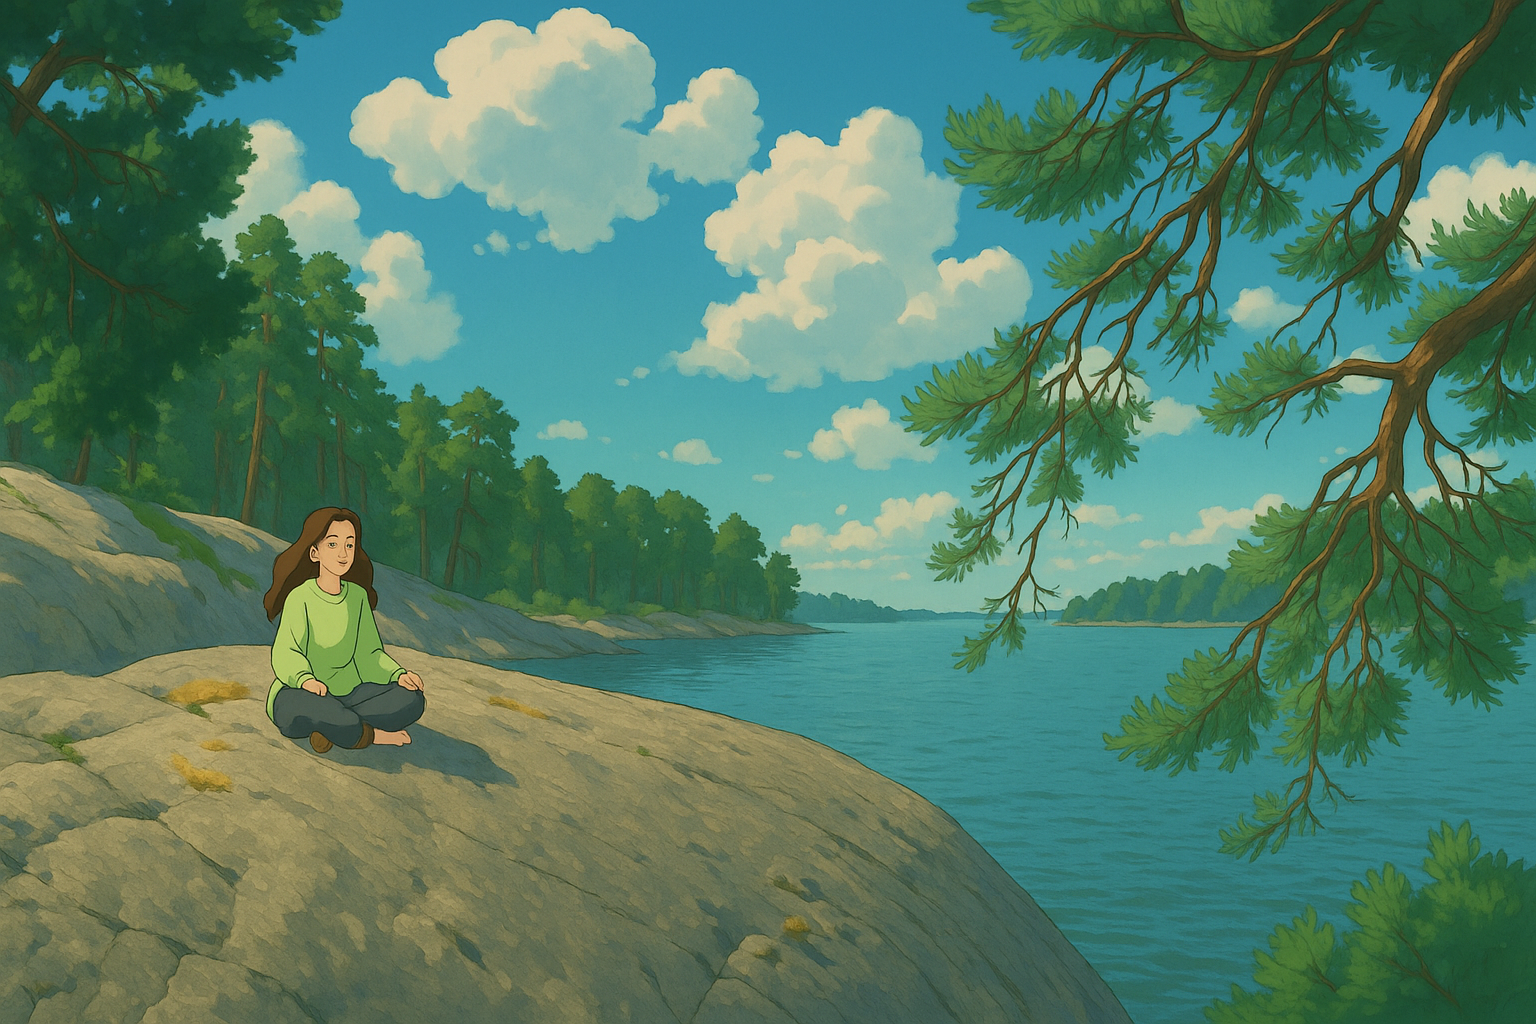
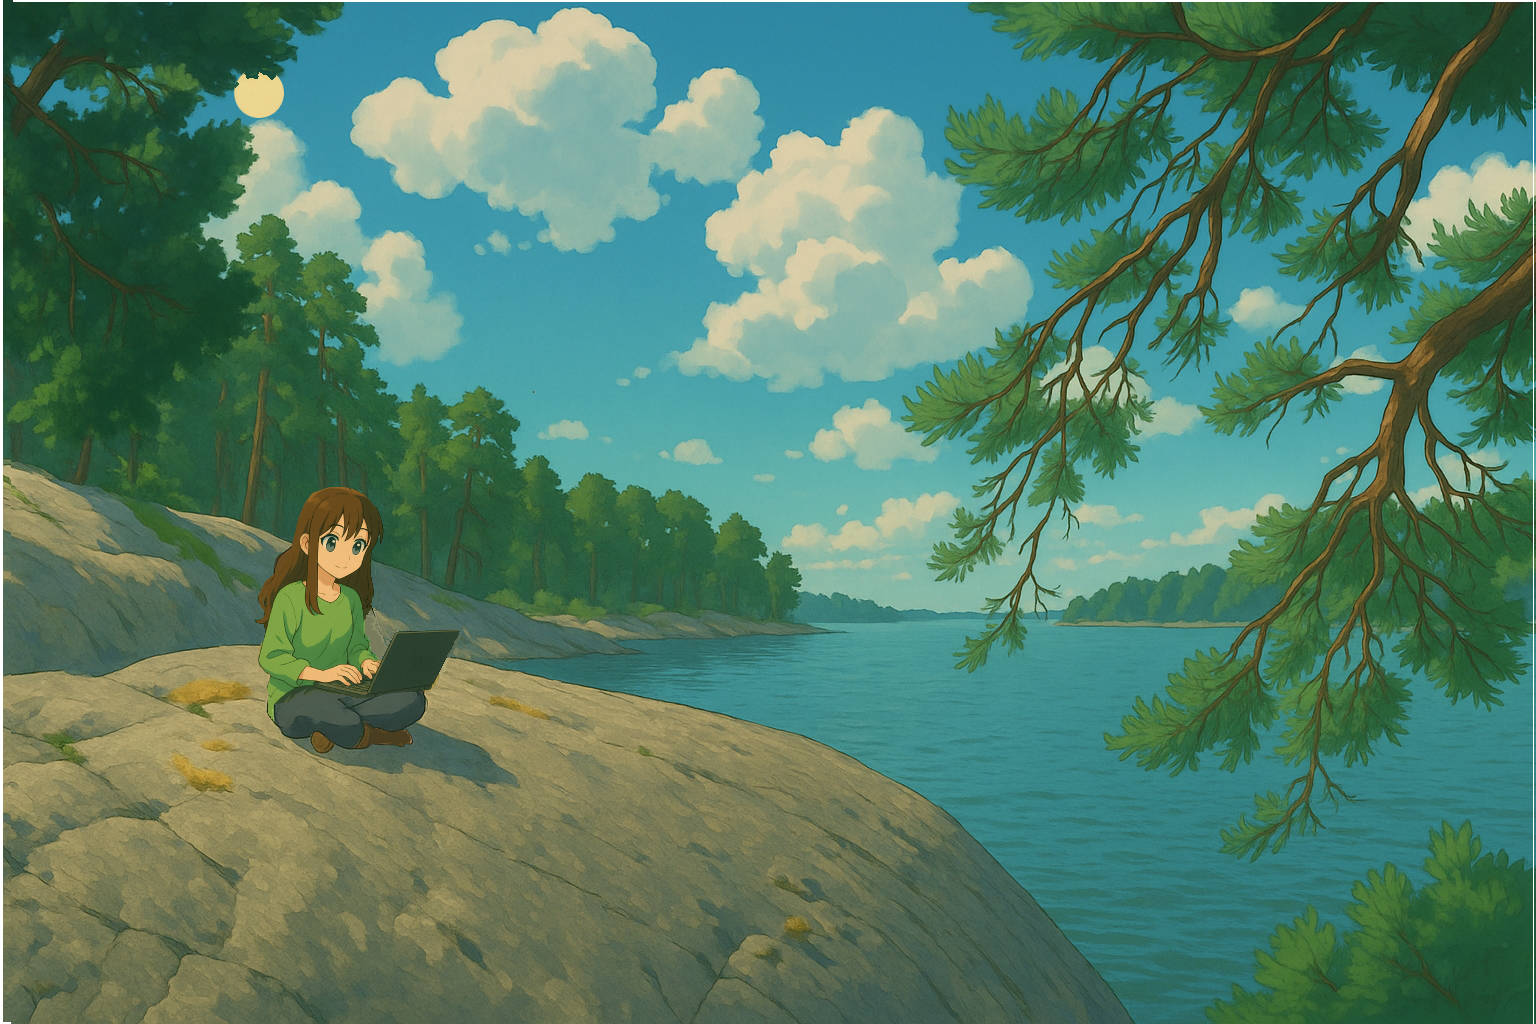
portfolio 2

diff --git a/HTML/profile_page_project/styles.css b/HTML/profile_page_project/styles.css
@@ -37,22 +37,25 @@ h3 {
 }
 .image .btn {
   background-color: hsl(44, 27%, 84%);
+  color: #2e88a3;
+  font: bold;
   cursor: pointer;
-  width: 80px; /* Width of the button */
-  height: 80px; /* Height of the button (same as width to make it round) */
-  border-radius: 50%; /* Make it round */
-  text-align: center;
+  width: 70px; /* Width of the button */
+  height: 70px; /* Height of the button (same as width to make it round) */
+  border-radius: 60px 10px; /* Make it round */
+  border: none;
+
   display: flex;
   justify-content: center; /* Center the content (text) */
   align-items: center;
   font-family: inherit;
   position: absolute;
-  top: 60px; /* насколько сверху */
-  left: 130px; /* насколько слева */
+  top: 0px; /* насколько сверху */
+  left: 300px; /* насколько слева */
   z-index: 10; /* чтобы была поверх картинки */
-  /* padding: 10px 20px; */
-
+  /* padding: 10px 20px; 
   display: block;
+   text-align: center;*/
 
   /* margin: 10px auto;<-- Центрирование по горизонтали */
 }
@@ -61,6 +64,7 @@ h3 {
   align-items: flex-start;
   justify-content: space-between;
   width: 100%;
+
   /* height: 400px; or whatever height you want */
   /* background-color: #9090b7; */
 }
@@ -72,6 +76,15 @@ h3 {
   /* filter: blur(5px); */
   height: auto;
 }
+
+#toggle-pic {
+  width: 50px;
+  height: auto;
+  position: "absolute";
+  top: "42px";
+  left: "230px";
+  zindex: "10";
+}
 .rectangle {
   /* background-color: hsl(45, 92%, 79%); */
   background-color: hsl(44, 27%, 84%);
@@ -80,6 +93,11 @@ h3 {
   display: flex;
   align-items: center;
   justify-content: center;
+
+  #gradient {
+    padding: 0px;
+    margin: 0px;
+  }
 }
 main {
   margin: 20px;
@@ -87,6 +105,7 @@ main {
   display: flex;
   justify-content: space-around;
   align-items: center;
+  border-top: #2e88a3 solid 2px;
 }
 .esi {
   padding: 20px;
@@ -102,6 +121,7 @@ main {
   font-size: 18px;
   list-style: none;
   margin: 0;
+  padding: 10px 0;
 }
 footer {
   margin: 12px;
@@ -214,8 +234,87 @@ html {
   scrollbar-width: thin;
   scrollbar-color: #2e88a3 #cbcbdb;
 }
+/* for dark theme */
+body.dark-theme {
+  background-color: #222;
+  color: #f1f1f1;
+}
 
-/*for dark theme*/
+body.dark-theme header {
+  background-color: #333;
+}
+
+body.dark-theme .kuva {
+  background-color: #444;
+}
+
+body.dark-theme .rectangle {
+  background-color: #333;
+}
+
+body.dark-theme .esi {
+  background-color: #555;
+}
+
+body.dark-theme .esi p,
+body.dark-theme .info ol li,
+body.dark-theme .formSubmit label,
+body.dark-theme footer .copyright {
+  color: #ddd;
+}
+
+body.dark-theme a,
+body.dark-theme .oma_class {
+  color: #ddd;
+}
+
+body.dark-theme footer {
+  background-color: #444;
+}
+
+body.dark-theme .footer_img img {
+  filter: brightness(0.7);
+}
+
+body.dark-theme .linkit {
+  background-color: #2e88a3;
+}
+
+body.dark-theme .btn {
+  color: hsl(44, 27%, 84%);
+  background-color: #2e88a3;
+}
+
+body.dark-theme #scrollTopBtn {
+  background-color: #2e88a3;
+  color: white;
+}
+
+body.dark-theme #scrollTopBtn:hover {
+  background-color: #3c3960;
+}
+
+body.dark-theme ::-webkit-scrollbar-track {
+  background: #333;
+}
+
+body.dark-theme ::-webkit-scrollbar-thumb {
+  background-color: #2e88a3;
+}
+
+body.dark-theme * {
+  scrollbar-color: #2e88a3 #333;
+}
+
+.dark-theme #anna {
+  display: none;
+}
+
+body:not(.dark-theme) #moon {
+  display: none;
+}
+
+/*for dark theme
 body.dark-theme {
   background-color: #222;
   color: #f1f1f1;
@@ -237,4 +336,4 @@ body.dark-theme .oma_class {
 }
 body.dark-theme footer .copyright {
   color: #bbb;
-}
+}*/

diff --git a/HTML/profile_page_project/scriptAurora.js b/HTML/profile_page_project/scriptAurora.js
@@ -1,0 +1,57 @@
+var colors = new Array(
+  [0, 255, 150], // яркий зелёный
+  [0, 191, 255], // небесно-синий
+  [138, 43, 226], // фиолетовый
+  [123, 104, 238], // светло-фиолетовый
+  [0, 255, 255] // аквамариновый
+  // [255, 105, 180]  розовый (легкий акцент)
+);
+
+var step = 0;
+var colorIndices = [0, 1, 2, 3];
+var gradientSpeed = 0.002;
+
+function updateGradient() {
+  var gradient = document.getElementById("gradient");
+
+  // Проверяем, активна ли темная тема
+  if (!document.body.classList.contains("dark-theme")) {
+    gradient.style.background = "none"; // убираем фон в светлой теме
+    return;
+  }
+  var c0_0 = colors[colorIndices[0]];
+  var c0_1 = colors[colorIndices[1]];
+  var c1_0 = colors[colorIndices[2]];
+  var c1_1 = colors[colorIndices[3]];
+
+  var istep = 1 - step;
+  var r1 = Math.round(istep * c0_0[0] + step * c0_1[0]);
+  var g1 = Math.round(istep * c0_0[1] + step * c0_1[1]);
+  var b1 = Math.round(istep * c0_0[2] + step * c0_1[2]);
+  var color1 = "rgb(" + r1 + "," + g1 + "," + b1 + ")";
+
+  var r2 = Math.round(istep * c1_0[0] + step * c1_1[0]);
+  var g2 = Math.round(istep * c1_0[1] + step * c1_1[1]);
+  var b2 = Math.round(istep * c1_0[2] + step * c1_1[2]);
+  var color2 = "rgb(" + r2 + "," + g2 + "," + b2 + ")";
+
+  gradient.style.background =
+    "linear-gradient(to right, " + color1 + ", " + color2 + ")";
+
+  step += gradientSpeed;
+  if (step >= 1) {
+    step %= 1;
+    colorIndices[0] = colorIndices[1];
+    colorIndices[2] = colorIndices[3];
+
+    // выбрать новые цвета
+    colorIndices[1] =
+      (colorIndices[1] + Math.floor(1 + Math.random() * (colors.length - 1))) %
+      colors.length;
+    colorIndices[3] =
+      (colorIndices[3] + Math.floor(1 + Math.random() * (colors.length - 1))) %
+      colors.length;
+  }
+}
+
+setInterval(updateGradient, 10);

diff --git a/HTML/profile_page_project/index.html b/HTML/profile_page_project/index.html
@@ -16,20 +16,24 @@
     </header>
     <div class="kuva">
       <div class="image">
-        <button class="btn" id="themeToggle">Vaihda teema</button>
-        <img src="./img/Serene Meditation by the Lake.png" alt="my photo" />
+        <button class="btn" id="themeToggle">switch to ...</button>
+        <img src="./img/anna.png" id="anna" alt="day photo" />
+        <img
+          id="moon"
+          src="./img/Moonlit Reflections by the Lake.png"
+          alt="moon"
+        />
       </div>
-      <div class="rectangle">
+      <div class="rectangle" id="gradient">
         <h1>Anna Shitikova</h1>
       </div>
     </div>
     <main>
       <div class="info">
         <ol>
-          <li>Katuosoite Jousenkaari, 5, 30</li>
-          <li>Postinumero ja toimipaikka – 02120 Espoo</li>
-          <li>Puhelinnumero +358 465 542 732</li>
-          <li>Sähköpostiosoite annashitikova@gmail.com</li>
+          <li>My city: Espoo Finland</li>
+          <li>Number: +358 465 542 732</li>
+          <li>Email: annashitikova@gmail.com</li>
         </ol>
       </div>
       <div class="esi">
@@ -89,5 +93,6 @@
     <button id="scrollTopBtn" title="Takaisin ylös">Up↑</button>
 
     <script src="script.js"></script>
+    <script src="scriptAurora.js"></script>
   </body>
 </html>

diff --git a/HTML/profile_page_project/script.js b/HTML/profile_page_project/script.js
@@ -14,13 +14,13 @@ window.addEventListener("DOMContentLoaded", () => {
     document.body.classList.add("dark-theme");
   }
 });
-const scrollLine = document.querySelector(".scroll-line");
+// const scrollLine = document.querySelector(".scroll-line");
 
-window.addEventListener("scroll", () => {
-  const height = document.documentElement.scrollHeight - window.innerHeight;
-  const scrolled = (window.scrollY / height) * 100;
-  scrollLine.style.height = `${scrolled}%`;
-});
+// window.addEventListener("scroll", () => {
+//   const height = document.documentElement.scrollHeight - window.innerHeight;
+//   const scrolled = (window.scrollY / height) * 100;
+//   scrollLine.style.height = `${scrolled}%`;
+// });
 const scrollBtn = document.getElementById("scrollTopBtn");
 
 scrollBtn.addEventListener("click", () => {

diff --git a/HTML/profile_page_project/about.html b/HTML/profile_page_project/about.html
@@ -24,4 +24,10 @@
     <li>valokuvaus</li>
     <li>laulaminen</li>
   </ul>
+  <ol>
+    <li>Katuosoite Jousenkaari, 5, 30</li>
+    <li>Postinumero ja toimipaikka – 02120 Espoo</li>
+    <li>Puhelinnumero +358 465 542 732</li>
+    <li>Sähköpostiosoite annashitikova@gmail.com</li>
+  </ol>
 </div>
